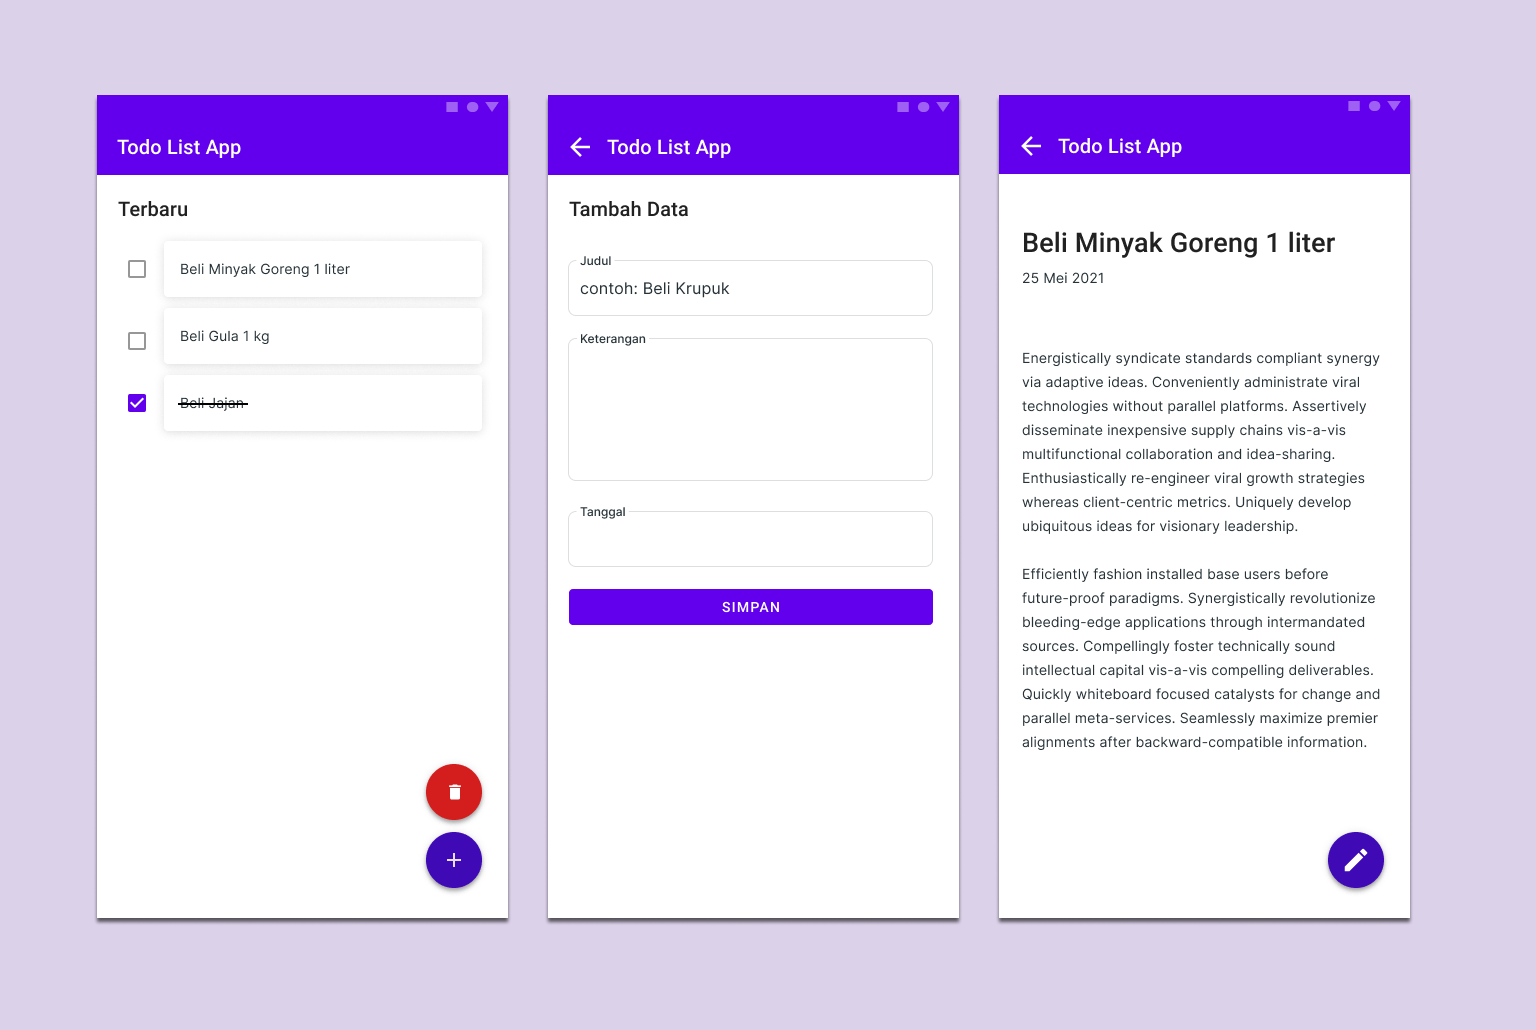
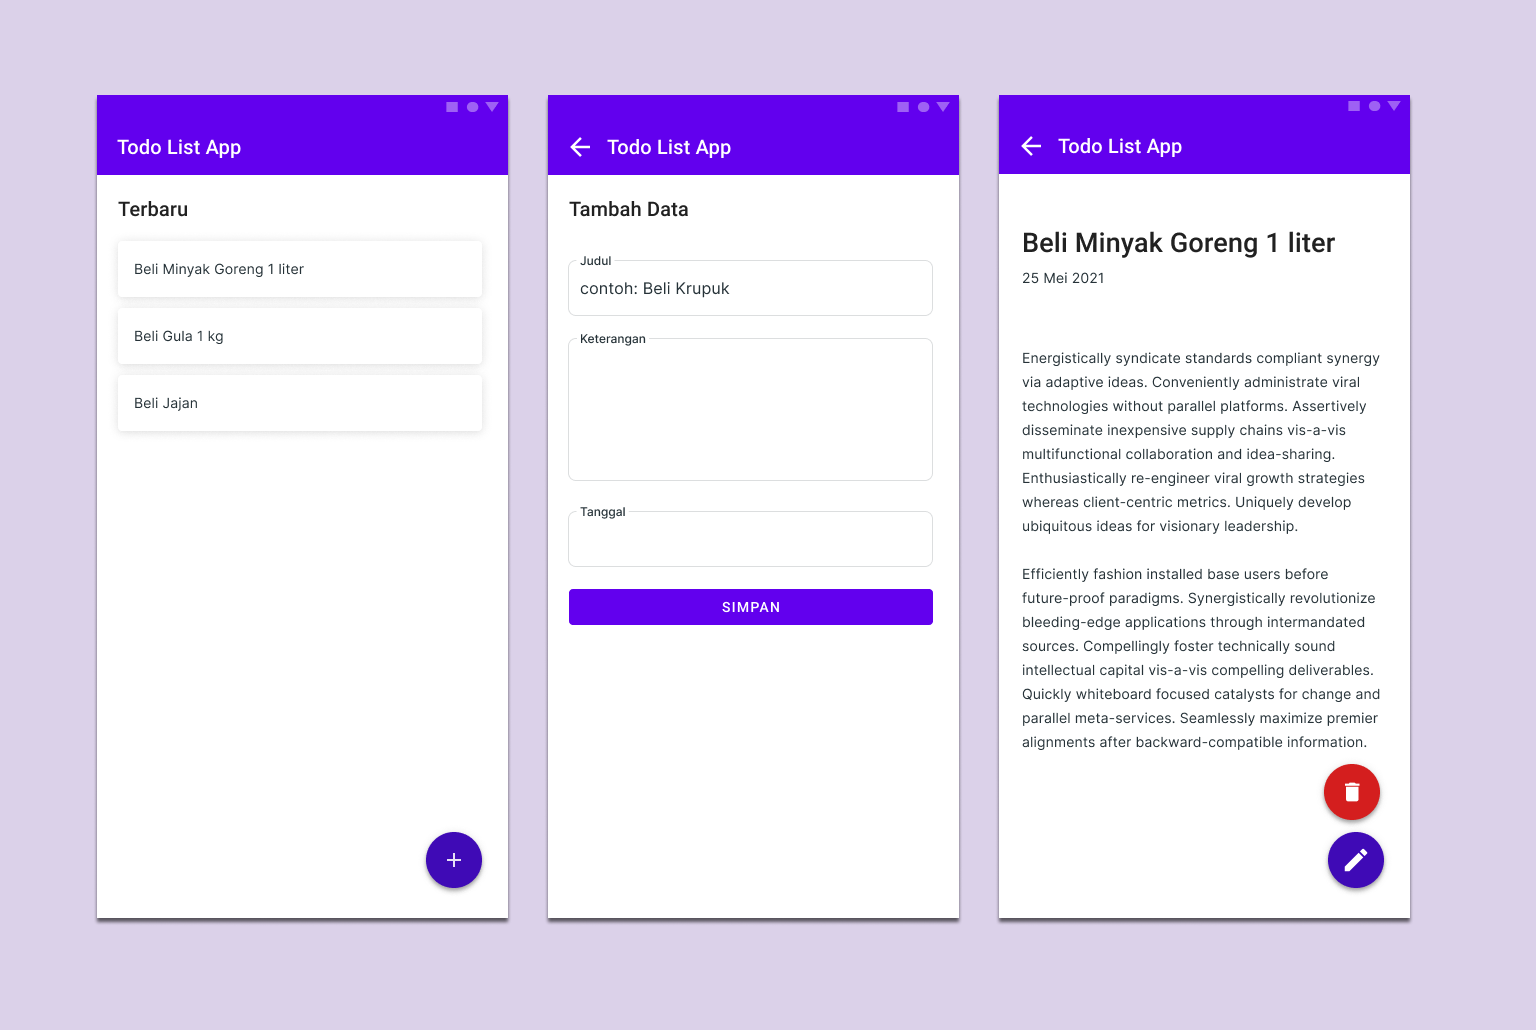
updated ui

diff --git a/app/src/main/java/com/miftahulhuda/todolistapp/DetailTodoFragment.kt b/app/src/main/java/com/miftahulhuda/todolistapp/DetailTodoFragment.kt
@@ -16,11 +16,15 @@ class DetailTodoFragment : Fragment() {
         savedInstanceState: Bundle?
     ): View? {
         // Inflate the layout for this fragment
-
         (activity as AppCompatActivity).supportActionBar?.title = "TodoListApp"
 
-
         val binding: FragmentDetailTodoBinding = DataBindingUtil.inflate(inflater, R.layout.fragment_detail_todo, container, false)
+        arguments?.let {
+            val args = DetailTodoFragmentArgs.fromBundle(it)
+            binding.txtJudul.text = args.judul
+            binding.txtKeterangan.text = args.ket
+        }
+
         return binding.root
     }
 }

diff --git a/app/src/main/java/com/miftahulhuda/todolistapp/IntroFragment.kt b/app/src/main/java/com/miftahulhuda/todolistapp/IntroFragment.kt
@@ -47,7 +47,9 @@ class IntroFragment : Fragment() {
         binding.listView.adapter = adapter
         binding.listView.setOnItemClickListener { parent, view, position, id ->
             val element = position // The item that was clicked
-            view.findNavController().navigate(R.id.detailTodoFragment)
+            val judul = items[position]
+            val ket = desc[position]
+            view.findNavController().navigate(IntroFragmentDirections.actionIntroFragmentToDetailTodoFragment(judul, ket))
         }
 
         return binding.root
